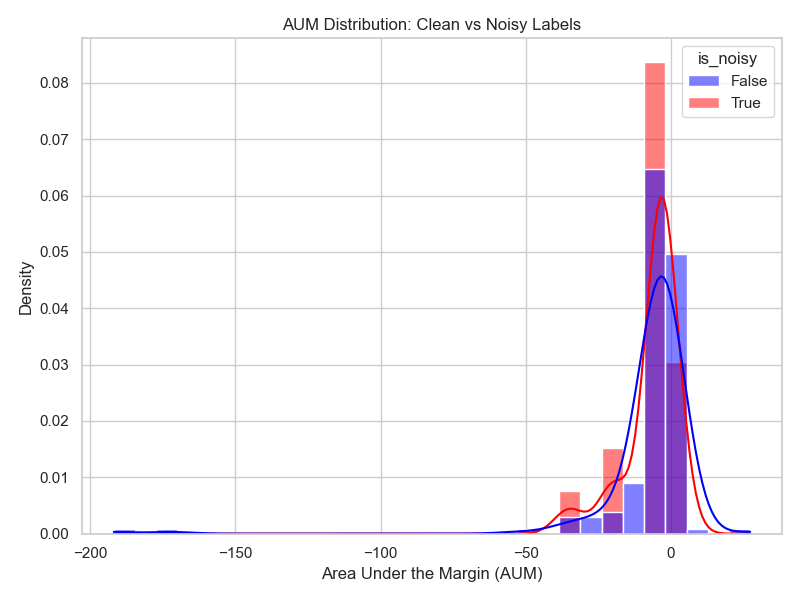
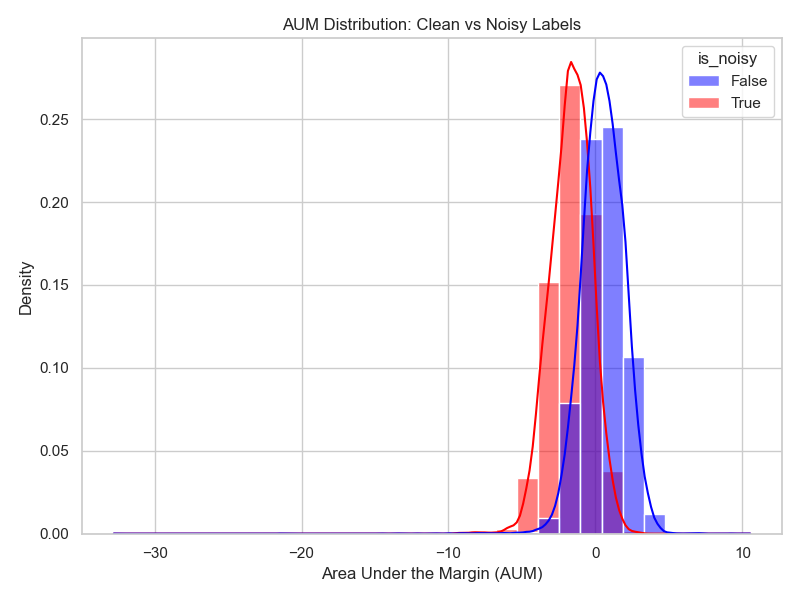
feat: complete full baseline training and generate AUM metrics

diff --git a/scripts/train_classifier.py b/scripts/train_classifier.py
@@ -57,7 +57,13 @@ def main():
         args.batch_size = 32
         device = torch.device('cpu')
     else:
-        device = torch.device('cuda' if torch.cuda.is_available() else 'cpu')
+        # Добавлена поддержка Apple Metal (MPS)
+        if torch.backends.mps.is_available():
+            device = torch.device('mps')
+        elif torch.cuda.is_available():
+            device = torch.device('cuda')
+        else:
+            device = torch.device('cpu')
 
     print(f"Используемое устройство: {device}")
 